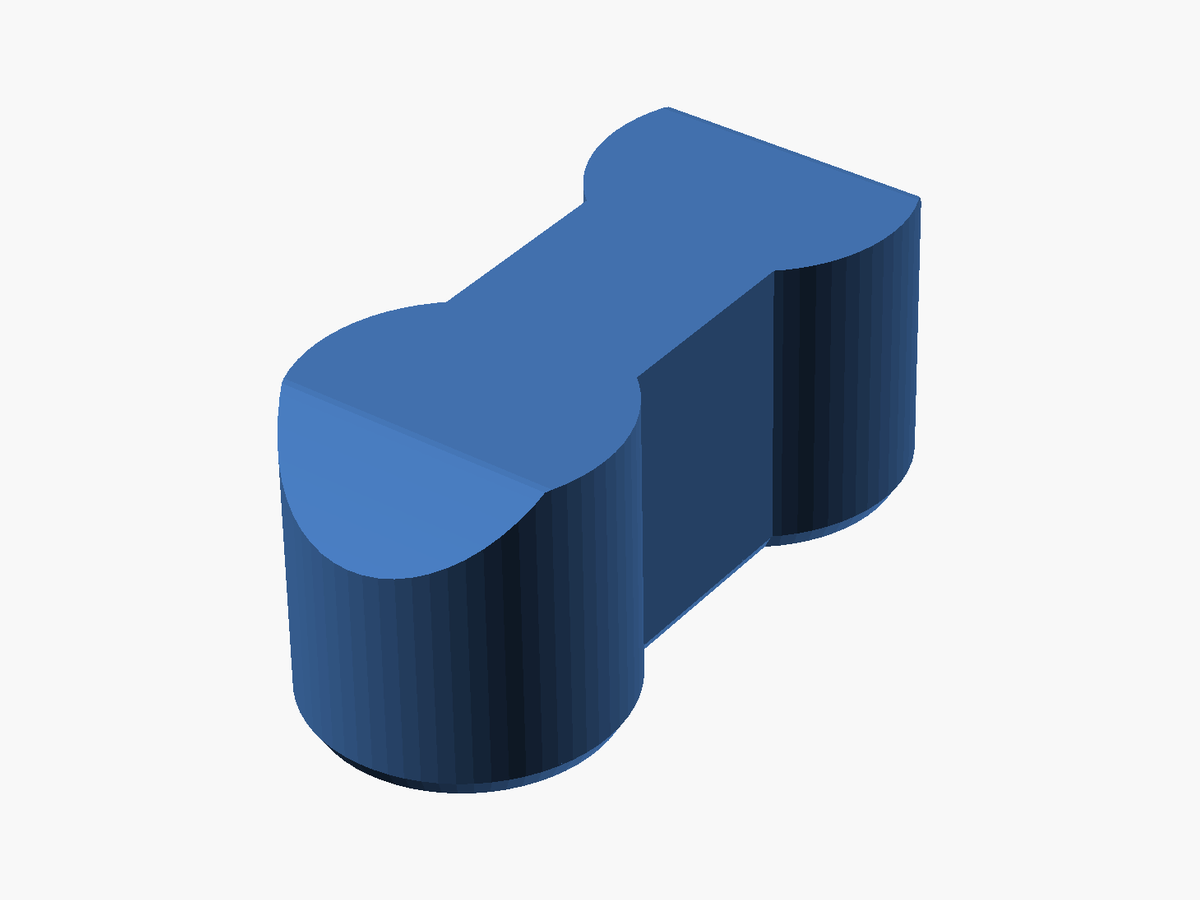
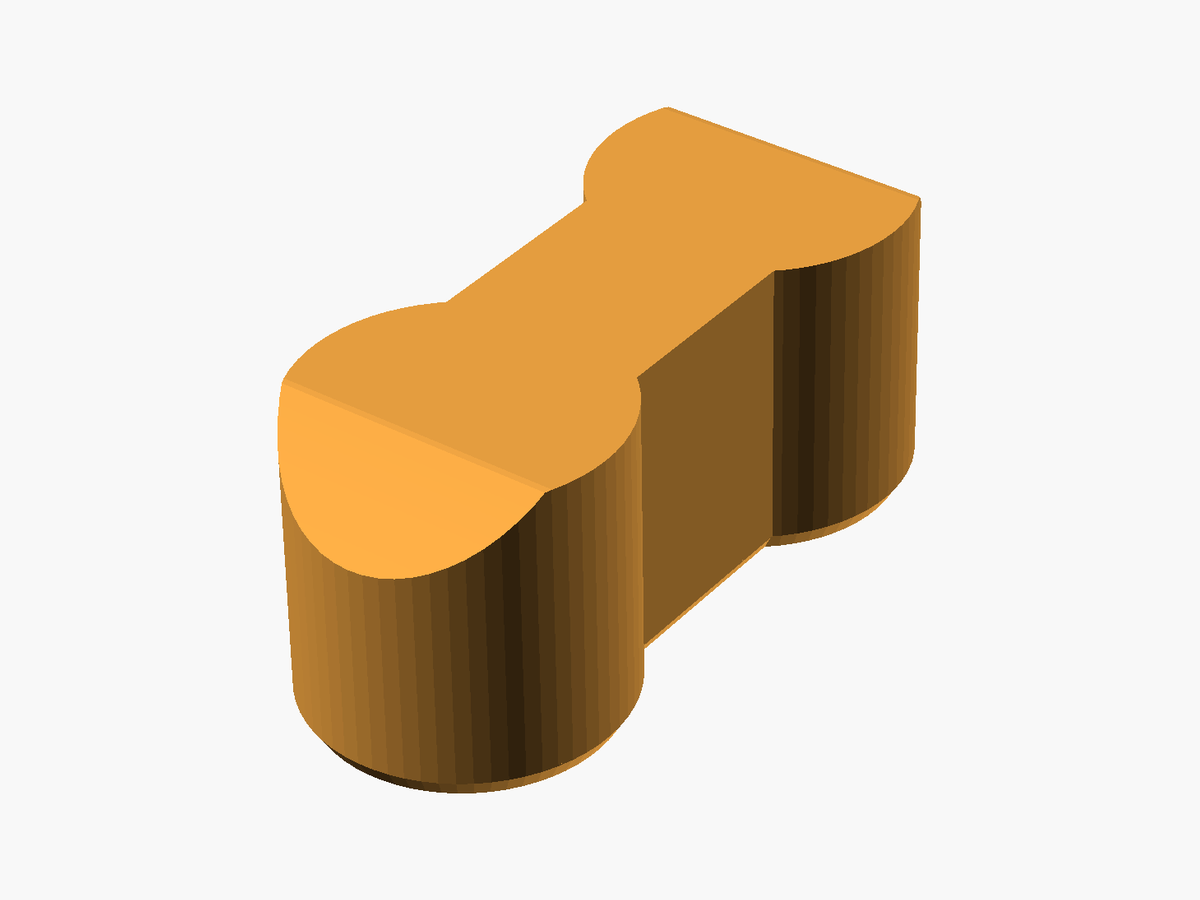
Finalize rotated connector layout and expanded 28-image OpenSCAD gallery
Add independently adjustable preview connector gap and tray-edge offset; standardize CAD colors, publish ten additional individual-tray views, and fully render blind-socket undersides to avoid misleading through-holes. Preserve the full main-branch test and screenshot workflow.

Changed region(s): [[0.2158, 0.1244, 0.7708, 0.9022]]

diff --git a/scripts/tray_gallery.py b/scripts/tray_gallery.py
@@ -1,0 +1,89 @@
+"""Render ten additional real OpenSCAD views: two for each physical tray.
+
+Uses the shipped kitchen-drawer preset. Each image comes from the selected
+physical tray (Output_mode=1), not a mockup or a reassembled depiction.
+Five alternate angles and five detail/underside images supplement the gallery.
+Most views use fast F5 OpenSCAD previews. The two underside views use
+full F6/CGAL rendering so the blind socket roofs cannot appear transparent
+at the exterior joining edge. The model geometry is unchanged.
+"""
+from __future__ import annotations
+
+import argparse
+from dataclasses import dataclass
+from pathlib import Path
+
+from PIL import Image
+
+from scripts.chamfer_docs import FRAME_SIZE, uniform_frame
+from scripts.organizer_cli import (
+    default_parts, openscad_render, preset_parameters,
+    release_paths, require_render_ok,
+)
+
+
+@dataclass(frozen=True)
+class TrayView:
+    name: str
+    row: int
+    col: int
+    camera: tuple[float, float, float, float, float, float, float]
+    closeup: bool = False
+
+
+# Camera target X/Y/Z; Euler X/Y/Z; viewing distance (mm).
+# Rear: rows 1-2; middle: rows 3-5, columns 1-3; front: row 6.
+# For the middle, the access openings are in logical row 4, Y=118.5.
+TRAY_VIEWS = (
+    TrayView("tray-rear-angle", 1, 1, (94.5,79,35,42,0,145,880)),
+    TrayView("tray-rear-underside", 1, 1, (94.5,79,18,145,0,35,950)),
+    TrayView("tray-middle-left-angle", 3, 1, (31.5,118.5,35,55,0,145,970)),
+    TrayView("tray-middle-left-cutout", 3, 1, (58,118.5,44,70,0,38,485), True),
+    TrayView("tray-middle-center-angle", 3, 2, (31.5,118.5,35,47,0,20,970)),
+    TrayView("tray-middle-center-cutout", 3, 2, (58,118.5,44,73,0,42,485), True),
+    TrayView("tray-middle-right-angle", 3, 3, (31.5,118.5,35,53,0,-32,970)),
+    TrayView("tray-middle-right-cutout", 3, 3, (5,118.5,44,72,0,142,485), True),
+    TrayView("tray-front-angle", 6, 1, (94.5,39.5,35,44,0,140,800)),
+    TrayView("tray-front-underside", 6, 1, (94.5,39.5,18,145,0,35,900)),
+)
+
+
+def main() -> None:
+    parser = argparse.ArgumentParser(description=__doc__)
+    parser.add_argument("--output", type=Path, default=Path("docs/images"))
+    parser.add_argument("--input", type=Path, default=Path("build/previews"))
+    args = parser.parse_args()
+    _, preset = release_paths()
+    selected = {(v.row, v.col) for v in TRAY_VIEWS}
+    expected = set(default_parts(preset_parameters(preset)))
+    if selected != expected or len(TRAY_VIEWS) != 2 * len(expected):
+        raise RuntimeError("Extra gallery must show two views of each physical tray")
+    destdir = args.output / "cad"
+    destdir.mkdir(parents=True, exist_ok=True)
+    args.input.mkdir(parents=True, exist_ok=True)
+    for view in TRAY_VIEWS:
+        raw = args.input / f"{view.name}.png"
+        params = {
+            "Output_mode": 1,
+            "Selected_row": view.row,
+            "Selected_column": view.col,
+            "Render_facets": 64,
+        }
+        proc = openscad_render(
+            raw, params,
+            image_focus=view.camera,
+            image_render=view.name.endswith("-underside"),  # F6 resolves false sky at blind roofs.
+            timeout=120,
+        )
+        require_render_ok(proc, raw)
+        dest = destdir / f"{view.name}.png"
+        uniform_frame(raw, name=view.name, allow_clipping=view.closeup).save(dest, optimize=True)
+        with Image.open(dest) as im:
+            if im.size != FRAME_SIZE:
+                raise RuntimeError(f"Unexpected image dimensions: {view.name}")
+        print("Wrote actual OpenSCAD tray screenshot", dest)
+    print(f"Validated {len(TRAY_VIEWS)} supplementary real-CAD gallery images")
+
+
+if __name__ == "__main__":
+    main()

diff --git a/tests/test_config.py b/tests/test_config.py
@@ -56,6 +56,12 @@ def test_customizer_controls_and_defaults():
     scad=source.read_text()
     params=preset_parameters(preset)
     assert "Preview_separation_mm = 0; // [0:1:50]" in scad
+    assert "Preview_loose_connector_gap_mm = 12; // [0:0.5:60]" in scad
+    assert "Preview_loose_connector_offset_mm = 12; // [0:0.5:100]" in scad
+    assert params["Preview_loose_connector_gap_mm"] == "12"
+    assert params["Preview_loose_connector_offset_mm"] == "12"
+    assert scad.index("Preview_loose_connector_gap_mm =") < scad.index("Render_facets =")
+    assert scad.index("Preview_loose_connector_offset_mm =") < scad.index("Render_facets =")
     assert "Render_facets = 20; // [3:1:200]" in scad
     assert int(params["Render_facets"])==20
     assert int(params["Print_overhang_angle_deg"])==60
@@ -68,6 +74,9 @@ def test_customizer_controls_and_defaults():
     assert params["Inner_bottom_radius_mm"] == "20"
     assert "Inner_bottom_radius_mm = 20; // [0:0.5:100]" in scad
     assert "preview_loose_connectors();" in scad
+    assert "color([0.18,0.49,0.51])" in scad
+    assert scad.count("color([0.90,0.62,0.25])") >= 2
+    assert "color([0.78+0.03*((r+c)%3),0.84,0.91-0.04*(c%3)])" not in scad
     assert "module inner_corner_fillet_keepouts(" in scad
     assert "offset(r=INNER_BOTTOM_R) offset(delta=-INNER_BOTTOM_R)" not in scad
     assert "INNER_BOTTOM_R_MIN=max(B,CHAMFER_Z+B);" in scad
@@ -132,6 +141,34 @@ def test_readme_visuals_are_camera_fitted_and_never_cropped():
     assert ".crop(" not in gallery
     assert "min(size[0]/im.width,size[1]/im.height,1.0)" in gallery
     assert "SCALE=2" in gallery
+
+
+def test_underside_preview_uses_f6_not_opencsg():
+    # F5 OpenCSG showed white holes through the rear blind connector roofs.
+    from scripts.tray_gallery import TRAY_VIEWS
+    source = (release_paths()[0].parent / "scripts/tray_gallery.py").read_text()
+    assert 'image_render=view.name.endswith("-underside")' in source
+    assert {v.name for v in TRAY_VIEWS if v.name.endswith("-underside")} == {
+        "tray-rear-underside", "tray-front-underside"
+    }
+
+
+def test_every_physical_tray_has_two_distinct_real_cad_gallery_views():
+    from scripts.tray_gallery import TRAY_VIEWS
+
+    _, preset = release_paths()
+    physical_parts = set(default_parts(preset_parameters(preset)))
+    assert len(TRAY_VIEWS) == 10
+    assert { (v.row, v.col) for v in TRAY_VIEWS } == physical_parts
+    assert len({v.name for v in TRAY_VIEWS}) == 10
+    for row, col in physical_parts:
+        views = [v for v in TRAY_VIEWS if (v.row, v.col) == (row, col)]
+        assert len(views) == 2
+        assert len({v.camera for v in views}) == 2
+    assert sum(v.closeup for v in TRAY_VIEWS) == 3
+    readme = (release_paths()[0].parent / "README.md").read_text()
+    for v in TRAY_VIEWS:
+        assert f'docs/images/cad/{v.name}.png' in readme
 
 
 def test_preview_frame_validator_catches_tiny_and_clipped_models(tmp_path):

diff --git a/tests/test_openscad.py b/tests/test_openscad.py
@@ -89,13 +89,48 @@ def test_full_preview_shows_loose_dogbones_in_right_hand_y_column(tmp_path,quant
     # The three-column group has one full preview gap on its right.
     rim_right=189+14+10/math.tan(math.radians(60))+gap
     head_radius=3.0
-    assert min(xs)-head_radius>=rim_right+5.9
+    head_in=2+math.sqrt(head_radius**2-2**2)
+    assert min(xs)-(head_in+head_radius)==pytest.approx(rim_right+12,abs=0.02)
     assert (ys[0]+ys[-1])/2==pytest.approx((474+2*gap)/2,abs=0.01)
     if quantity>1:
-        head_in=2+math.sqrt(3**2-2**2)
-        pitch=2*(head_in+head_radius)+4
+        pitch=2*head_radius+12
         assert np.allclose(np.diff(ys),-pitch,atol=0.002)
     assert path.stat().st_size>1000
+
+
+@pytest.mark.parametrize("connector_gap", [0, 4, 12, 25])
+@pytest.mark.parametrize("right_offset", [0, 4, 12, 35])
+def test_full_layout_loose_connectors_have_independent_gap_and_edge_offset(
+        tmp_path, connector_gap, right_offset):
+    """Each part rotates around its own Z axis; its Y row is unchanged."""
+    out, _ = render_csg(tmp_path, f"connector_gap{connector_gap}_offset{right_offset}", {
+        "Output_mode": 0, "Preview_separation_mm": 12,
+        "Preview_loose_connector_gap_mm": connector_gap,
+        "Preview_loose_connector_offset_mm": right_offset,
+        "Loose_connector_quantity": 8,
+    })
+    loc = preview_connector_positions(out)
+    xs = np.array([x for _, x, _ in loc])
+    ys = np.array([y for _, _, y in loc])
+    assert len(loc) == 8
+    assert np.allclose(xs, xs[0], atol=0.001)
+    assert np.allclose(np.diff(ys), -(6+connector_gap), atol=0.002)
+    assert (ys[0]+ys[-1])/2 == pytest.approx((474+24)/2, abs=0.02)
+    outermost_tray_right = 189+14+10/math.tan(math.radians(60))+12
+    rotated_half_length = (2+math.sqrt(5))+3
+    assert xs[0]-rotated_half_length == pytest.approx(
+        outermost_tray_right+right_offset, abs=0.02)
+
+
+def test_full_layout_rotates_individual_connector_not_placement_row():
+    source,_=release_paths()
+    scad=source.read_text()
+    preview=scad[scad.index("module preview_loose_connectors()"):scad.index(
+        "// ----------- Output and non-fatal invalid selection handling")]
+    assert "translate([x,y,0])\n            rotate([0,0,90])" in preview
+    assert "pitch=preview_connector_pitch();" in preview
+    assert "y=yc+((Loose_connector_quantity-1)/2-i)*pitch;" in preview
+    assert "function preview_connector_pitch()=2*HEAD_R+Preview_loose_connector_gap_mm;" in scad
 
 
 @pytest.mark.parametrize("mode",[1,2])

diff --git a/scripts/chamfer_docs.py b/scripts/chamfer_docs.py
@@ -138,7 +138,7 @@ FRAME_SIZE = (1200, 900)
 BACKGROUND = (248, 248, 248)
 
 
-def uniform_frame(path: Path, *, name: str) -> Image.Image:
+def uniform_frame(path: Path, *, name: str, allow_clipping: bool = False) -> Image.Image:
     """Place uncropped CAD geometry on equal 4:3 canvases at a consistent scale.
 
     A high-resolution camera render is fitted to a constant 1200x900 frame.
@@ -155,7 +155,7 @@ def uniform_frame(path: Path, *, name: str) -> Image.Image:
     w, h = source.size
     # The interior-divider detail is intentionally a camera crop of a tray,
     # unlike the complete fitting interfaces, which must not be clipped.
-    if name != "cutout-closeup" and (x0 <= 1 or y0 <= 1 or x1 >= w-1 or y1 >= h-1):
+    if not (allow_clipping or name == "cutout-closeup") and (x0 <= 1 or y0 <= 1 or x1 >= w-1 or y1 >= h-1):
         raise RuntimeError(f"CAD model clipped by the source camera: {name}")
     box_w, box_h = x1-x0, y1-y0
     margin = max(24, round(max(box_w, box_h) * .05))

diff --git a/README.md b/README.md
@@ -6,7 +6,7 @@ Parametric tray geometry for a measured, metal-sided drawer. Separate printed tr
 
 ## OpenSCAD gallery — actual model and print interfaces
 
-These are **OpenSCAD previews from v12 geometry**, not photos or slicer results. The top rows show the actual supplied preset; the magnified connector/socket views use isolated CAD inspection crops and shortened surrounding stock while reusing the real connector and socket geometry. All gallery images use the same 4:3 frame and are paired with the relevant technical setting. Tap a thumbnail to open its full-resolution PNG.
+These are **OpenSCAD previews from v12 geometry**, not photos or slicer results. The top rows show the actual supplied preset; the magnified connector/socket views use isolated CAD inspection crops and shortened surrounding stock while reusing the real connector and socket geometry. All gallery images use the same 4:3 frame and are paired with the relevant technical setting. Tap a thumbnail to open its full-resolution PNG. **Color convention:** teal = printed trays, orange = loose male connectors, blue = socket inspection sections.
 
 <!-- Intentionally fixed 256 × 192 display thumbnails for balanced two-column GitHub mobile tables. Full-resolution PNG links are kept in each cell. -->
 
@@ -26,6 +26,35 @@ These are **OpenSCAD previews from v12 geometry**, not photos or slicer results.
 | --- | --- |
 | <a href="docs/images/cad/cutout-closeup.png"><img src="docs/images/cad/cutout-closeup.png" alt="Interior divider access cutout" width="256" height="192"></a> | <a href="docs/images/cad/dogbone.png"><img src="docs/images/cad/dogbone.png" alt="Loose connector output" width="256" height="192"></a> |
 | Row-4 access cutout, rounded 20 mm transition diameter | `Output_mode=2`; one dogbone shown for inspection |
+
+### Each physical tray — alternate angle and details
+
+These ten additional **OpenSCAD CAD previews** cover every physical tray in the five-piece preset. The alternate angles show the complete selected tray; the closer views show its underside connection interfaces or row-4 divider access cutouts. Underside screenshots are fully rendered (F6): the sockets open at the bottom but have closed roofs, not through-holes. Images remain 1200 × 900 pixels and open at full resolution when tapped.
+
+| Rear tray — opposite corner | Rear tray — underside |
+| --- | --- |
+| <a href="docs/images/cad/tray-rear-angle.png"><img src="docs/images/cad/tray-rear-angle.png" alt="Rear tray from opposite corner" width="256" height="192"></a> | <a href="docs/images/cad/tray-rear-underside.png"><img src="docs/images/cad/tray-rear-underside.png" alt="Rear tray underside and joining sockets" width="256" height="192"></a> |
+| Rows 1–2, column 1; alternate raised camera angle | Blind underside sockets; closed roofs above the openings |
+
+| Middle left — alternate angle | Middle left — access cutout |
+| --- | --- |
+| <a href="docs/images/cad/tray-middle-left-angle.png"><img src="docs/images/cad/tray-middle-left-angle.png" alt="Middle left tray alternate angle" width="256" height="192"></a> | <a href="docs/images/cad/tray-middle-left-cutout.png"><img src="docs/images/cad/tray-middle-left-cutout.png" alt="Middle left tray row 4 divider cutout" width="256" height="192"></a> |
+| Rows 3–5, column 1; full individual tray | Row-4 access opening in the right-hand divider |
+
+| Middle center — alternate angle | Middle center — access cutout |
+| --- | --- |
+| <a href="docs/images/cad/tray-middle-center-angle.png"><img src="docs/images/cad/tray-middle-center-angle.png" alt="Middle center tray alternate angle" width="256" height="192"></a> | <a href="docs/images/cad/tray-middle-center-cutout.png"><img src="docs/images/cad/tray-middle-center-cutout.png" alt="Middle center tray row 4 divider cutout" width="256" height="192"></a> |
+| Rows 3–5, column 2; full individual tray | Row-4 rounded access opening in the divider |
+
+| Middle right — alternate angle | Middle right — access cutout |
+| --- | --- |
+| <a href="docs/images/cad/tray-middle-right-angle.png"><img src="docs/images/cad/tray-middle-right-angle.png" alt="Middle right tray alternate angle" width="256" height="192"></a> | <a href="docs/images/cad/tray-middle-right-cutout.png"><img src="docs/images/cad/tray-middle-right-cutout.png" alt="Middle right tray row 4 divider cutout" width="256" height="192"></a> |
+| Rows 3–5, column 3; full individual tray | Row-4 access opening in the left-hand divider |
+
+| Front tray — opposite corner | Front tray — underside |
+| --- | --- |
+| <a href="docs/images/cad/tray-front-angle.png"><img src="docs/images/cad/tray-front-angle.png" alt="Front tray from opposite corner" width="256" height="192"></a> | <a href="docs/images/cad/tray-front-underside.png"><img src="docs/images/cad/tray-front-underside.png" alt="Front tray underside and joining sockets" width="256" height="192"></a> |
+| Row 6, column 1; alternate raised camera angle | Blind underside sockets; closed roofs above the openings |
 
 ### Loose dogbone — footprint and first layers
 
